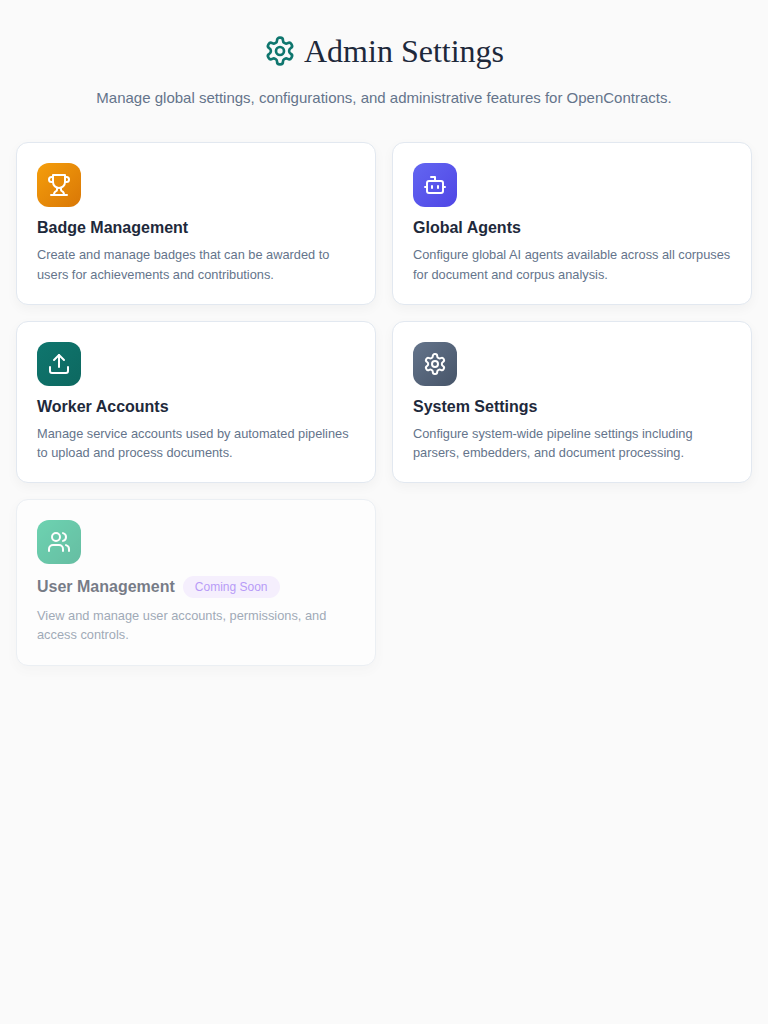
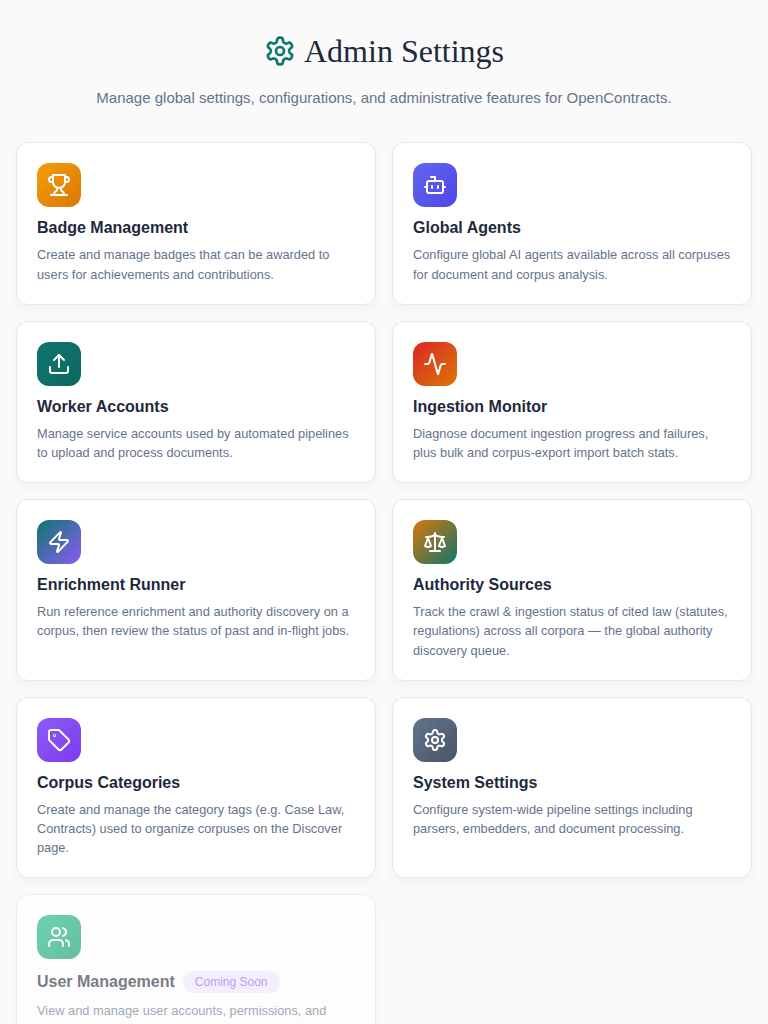
fix(frontend): surface the Enrichment Runner in admin settings
The /admin/enrichment route was registered but had no card in the admin settings panel, so it was only reachable by typing the URL. Add an "Enrichment Runner" card to GlobalSettingsPanel alongside Authority Sources, with a regression test.

diff --git a/frontend/tests/admin-components.ct.tsx b/frontend/tests/admin-components.ct.tsx
@@ -145,6 +145,25 @@ test.describe("GlobalSettingsPanel Component", () => {
     await component.unmount();
   });
 
+  test("should render the Enrichment Runner card so /admin/enrichment is reachable", async ({
+    mount,
+    page,
+  }) => {
+    // Regression: the panel linked to /admin/authorities but had no card for
+    // the /admin/enrichment runner, so it was unreachable from the GUI.
+    const component = await mount(<GlobalSettingsPanelWrapper />);
+
+    const card = page.locator(
+      '[data-testid="settings-card-enrichment-runner"]'
+    );
+    await expect(card).toBeVisible();
+    await expect(card).toContainText("Enrichment Runner");
+    // Must be an active (clickable) card, not a Coming Soon placeholder.
+    await expect(card.locator("text=Coming Soon")).toHaveCount(0);
+
+    await component.unmount();
+  });
+
   test("should show Coming Soon badge for unavailable features", async ({
     mount,
     page,

diff --git a/frontend/src/components/admin/GlobalSettingsPanel.tsx b/frontend/src/components/admin/GlobalSettingsPanel.tsx
@@ -10,6 +10,7 @@ import {
   Tag,
   Activity,
   Scale,
+  Zap,
   LucideIcon,
 } from "lucide-react";
 
@@ -257,6 +258,15 @@ const settingsItems: SettingItem[] = [
     icon: Activity,
     gradient: `linear-gradient(135deg, ${OS_LEGAL_COLORS.danger} 0%, ${OS_LEGAL_COLORS.folderIcon} 100%)`,
     route: "/admin/ingestion",
+  },
+  {
+    id: "enrichment-runner",
+    title: "Enrichment Runner",
+    description:
+      "Run reference enrichment and authority discovery on a corpus, then review the status of past and in-flight jobs.",
+    icon: Zap,
+    gradient: `linear-gradient(135deg, ${OS_LEGAL_COLORS.accent} 0%, ${OS_LEGAL_COLORS.chartPurple} 100%)`,
+    route: "/admin/enrichment",
   },
   {
     id: "authority-sources",

diff --git a/changelog.d/admin-enrichment-nav.fixed.md b/changelog.d/admin-enrichment-nav.fixed.md
@@ -1,0 +1,8 @@
+- Fixed: the admin settings panel
+  (`frontend/src/components/admin/GlobalSettingsPanel.tsx`, `/admin/settings`)
+  had a navigation card for Authority Sources (`/admin/authorities`) but none for
+  the Enrichment Runner, so `/admin/enrichment` — whose route is registered in
+  `App.tsx` and whose page links "Back to Admin Settings" — was unreachable from
+  the GUI (only by typing the URL). Added an "Enrichment Runner" card linking to
+  `/admin/enrichment`, placed alongside Authority Sources. Regression test in
+  `frontend/tests/admin-components.ct.tsx`.
